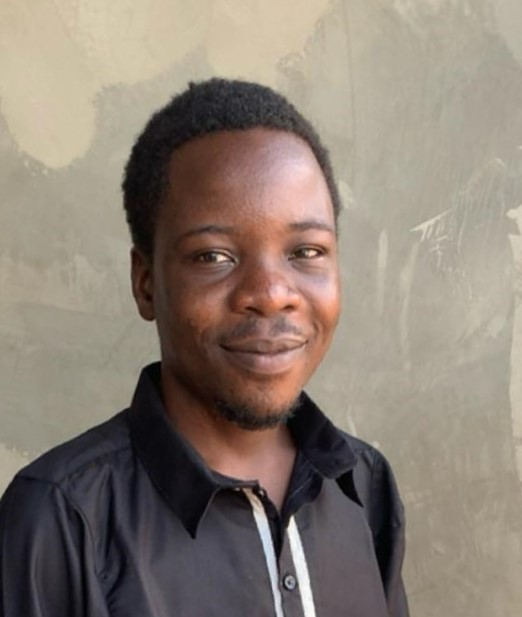
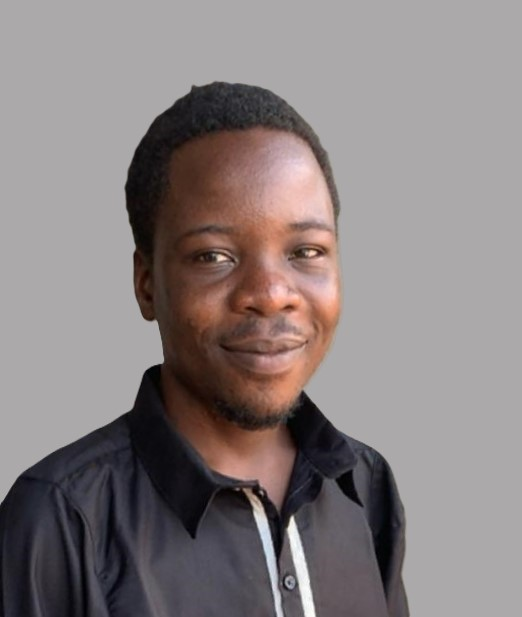
name animation

diff --git a/src/pages/Portfolio.tsx b/src/pages/Portfolio.tsx
@@ -1,5 +1,6 @@
 import Navbar from "../components/Nav";
 import Accordion from "../components/accordion";
+import { TypeAnimation } from "react-type-animation";
 
 const Portfolio = () => {
   return (
@@ -9,14 +10,20 @@ const Portfolio = () => {
         className=" bg-cover bg-center bg-white flex flex-col-reverse lg:flex-row items-center justify-center gap-6 h-auto min-h-screen p-6 md:p-10 [border-end-start-radius:150px] [box-shadow:0_0_15px_rgba(0,0,0,0.3)]"
         style={{ backgroundImage: "url('./Img/Header bg@2x.png')" }}
       >
-        
+
         <div className="flex-1 flex flex-col justify-center space-y-6 max-w-2xl text-center lg:text-left">
-          <p className="font-bold text-2xl sm:text-3xl lg:text-4xl">
-            I Am Akinola Victor
-          </p>
-          <p className="font-bold text-2xl sm:text-3xl lg:text-4xl">
-            I Am Glad to Meet You
-          </p>
+          <TypeAnimation
+            sequence={[
+              'I Am Akinola Victor',
+              2000,
+              'I Am Glad to Meet You',
+              2000,
+            ]}
+            wrapper="p"
+            speed={50}
+            repeat={Infinity}
+            className="font-semibold text-2xl logo sm:text-3xl lg:text-4xl"
+          />
           <p className="text-[#344563] text-base sm:text-lg font-medium leading-relaxed">
             I'm a passionate Software Developer with a knack for crafting
             innovative, user-friendly applications and solving all the problems
@@ -79,13 +86,13 @@ const Portfolio = () => {
         {/* Image */}
         <div className="flex-1 pt-[70px] lg:pt-12 flex justify-center items-center max-w-md sm:max-w-sm lg:max-w-lg">
           <img
-            src="/img/me.jpg"
+            src="/img/portfolio_image.png"
             alt="my_picture"
             className="rounded-xl w-full h-auto shadow-md"
           />
         </div>
       </div>
-      
+
 
       <Accordion />
     </>

diff --git a/src/components/accordion.tsx b/src/components/accordion.tsx
@@ -34,7 +34,7 @@ const Accordion = () => {
         setOpenIndex((prev) => (prev === index ? null : index));
     };
     return (
-        <div className="shadow-[0_-4px_10px_rgba(0,0,0,0.15)] mt-12 [border-start-end-radius:120px] bg-white h-full">
+        <div className="shadow-[0_-4px_10px_rgba(0,0,0,0.15)] mt-12 [border-start-end-radius:120px] [border-start-start-radius:120px] bg-white h-full">
             <div className="w-[98%] mx-auto my-6 rounded-lg py-12 px-12">
                 {/* Languages */}
                 <div className="border border-gray-100 rounded-lg mb-4 overflow-hidden">
@@ -103,7 +103,7 @@ const Accordion = () => {
                     >
                         Other Skills
                         <span className="transition-transform duration-300">
-                            {openIndex === 1 ? (
+                            {openIndex === 2 ? (
                                 // @ts-ignore
                                 <FaChevronUp className="w-5 h-5" />
                             ) : (
